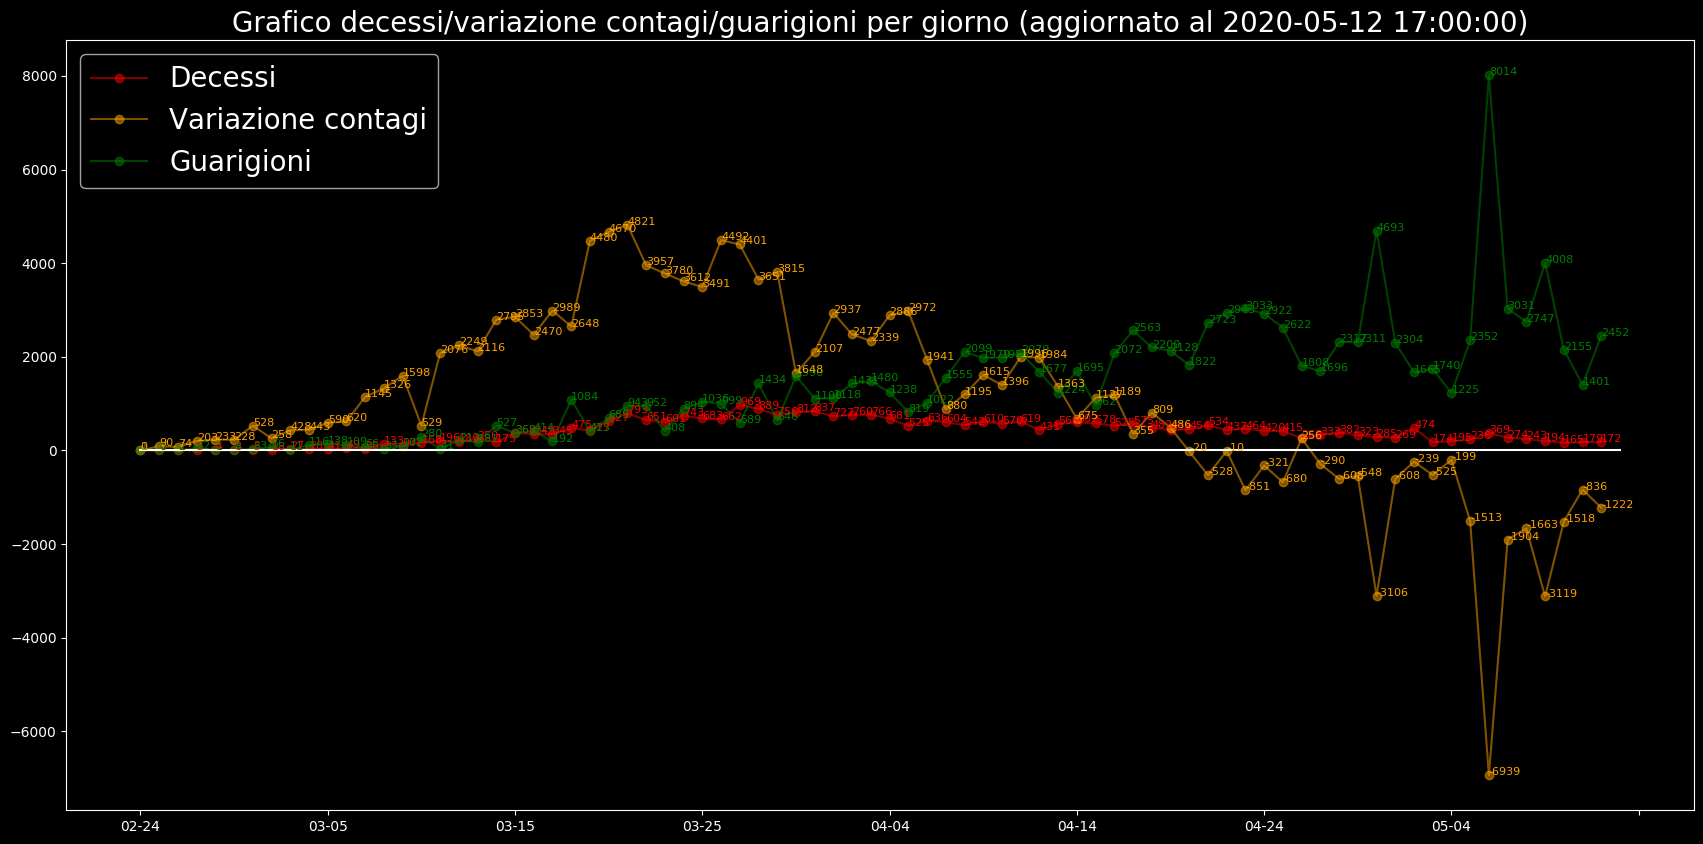
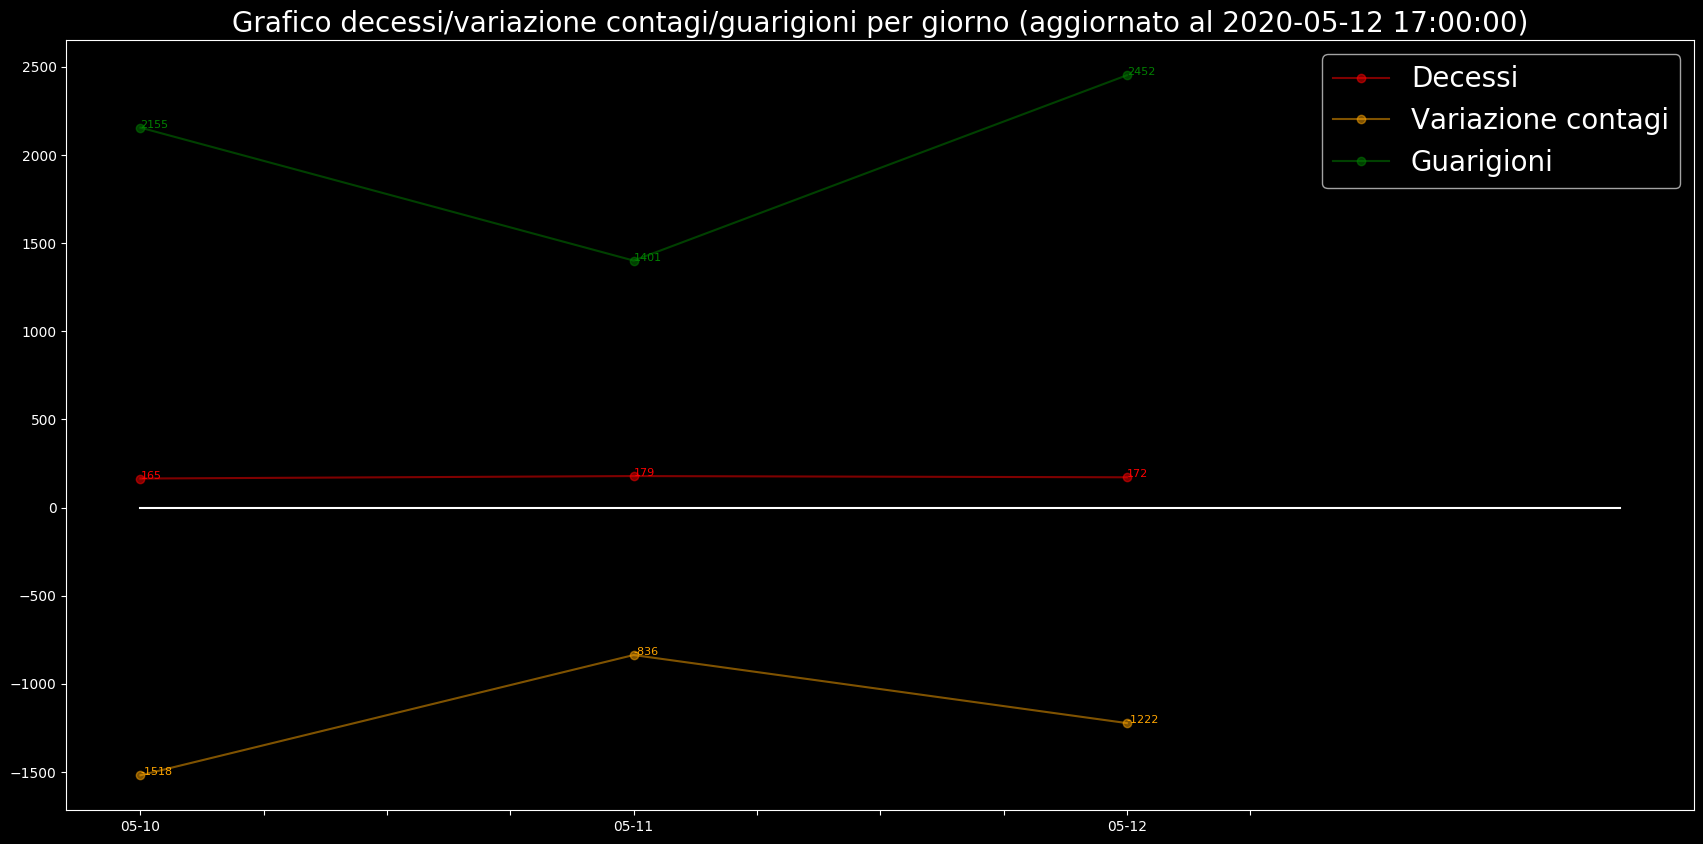
Added 12-05

diff --git a/covid19graphs/src/ContHealDeathPerDay.py b/covid19graphs/src/ContHealDeathPerDay.py
@@ -3,7 +3,7 @@ import pandas as pd
 import numpy as np
 import csv
 import copy
-days = 0  # 0 se vuoi vedere ogni giorno dal 24 febbraio
+days = 3  # 0 se vuoi vedere ogni giorno dal 24 febbraio
 
 # Funzione che rimuove l'orario dalla data di prelievo dei dati
 def removehourandyear(listdays):
